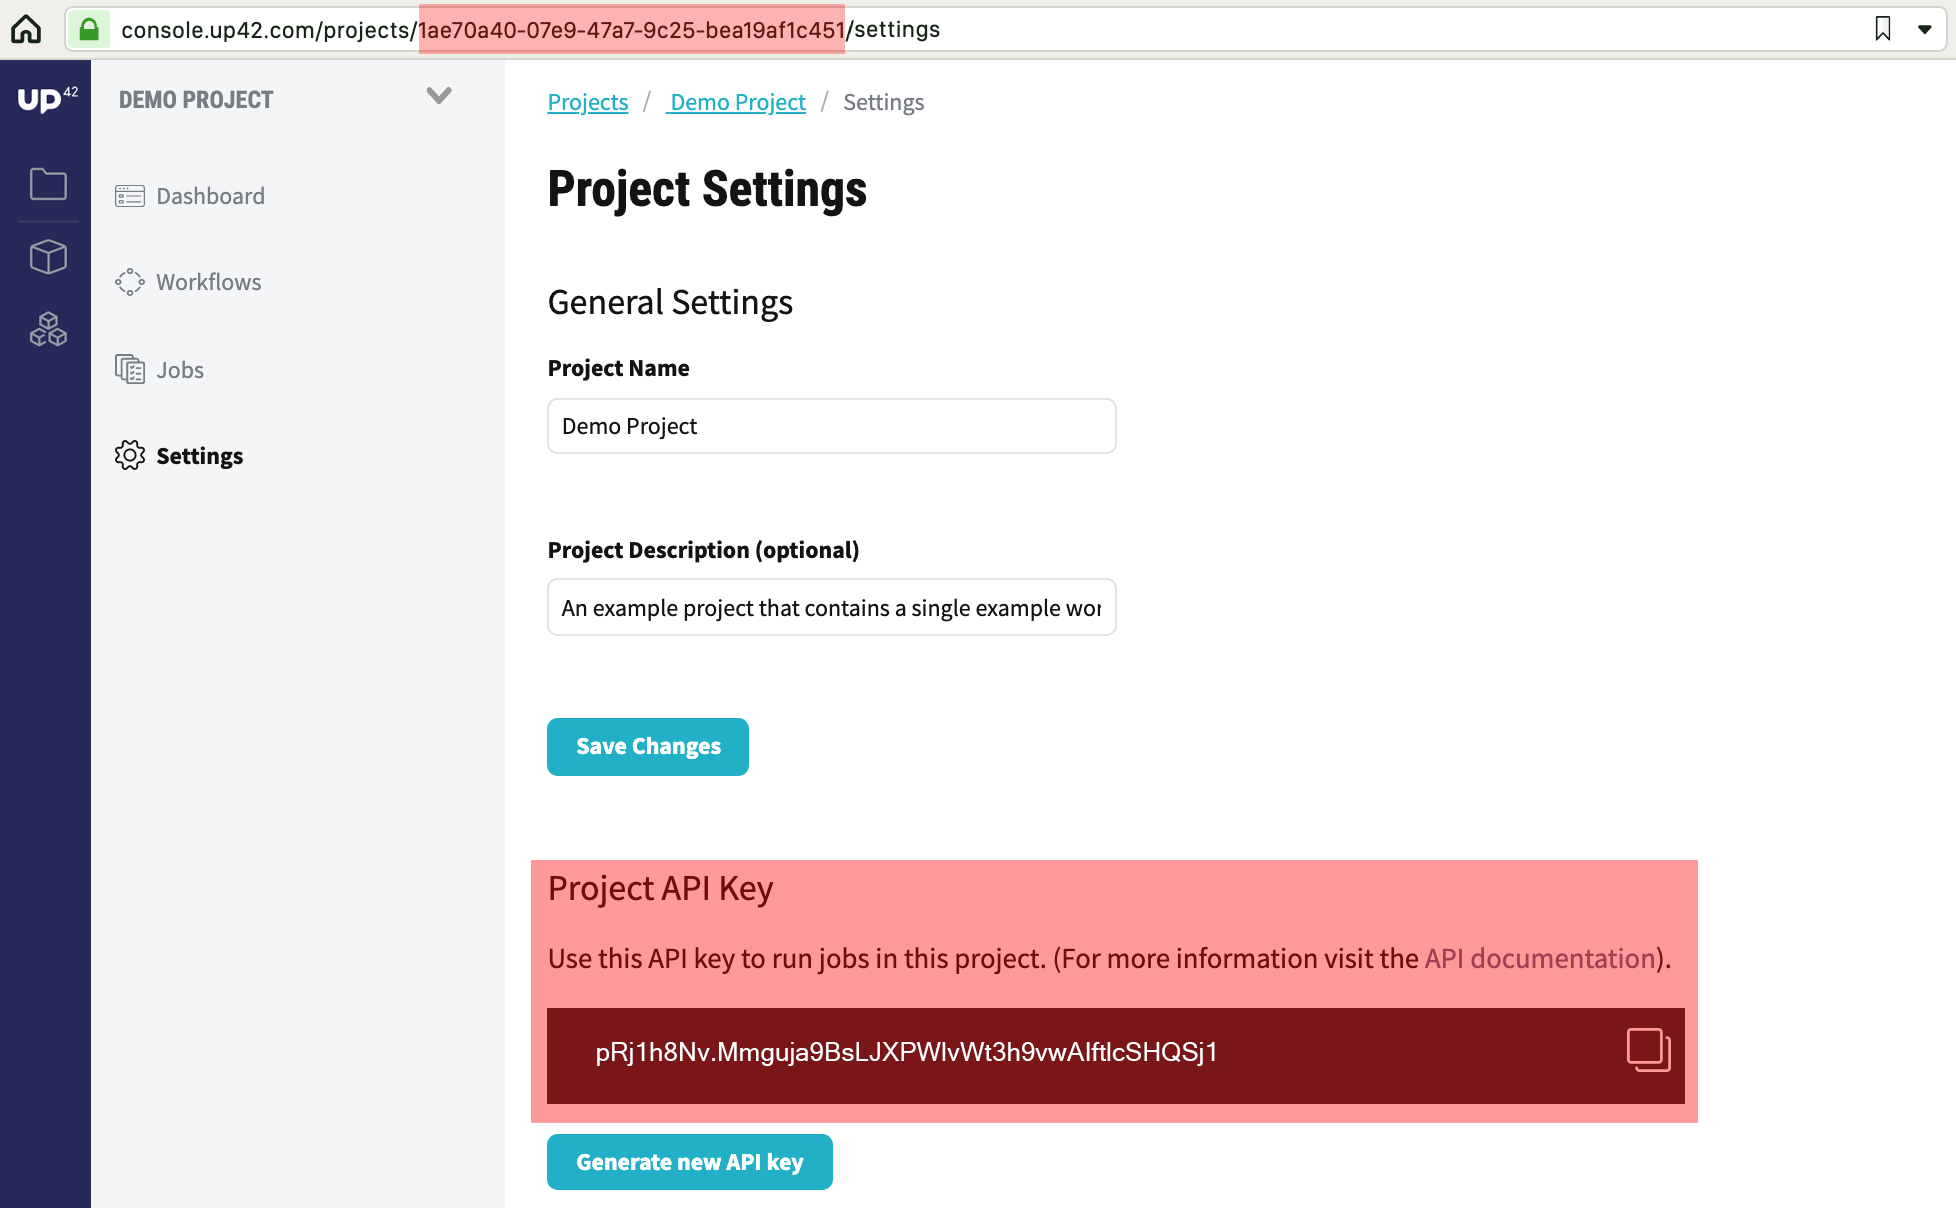
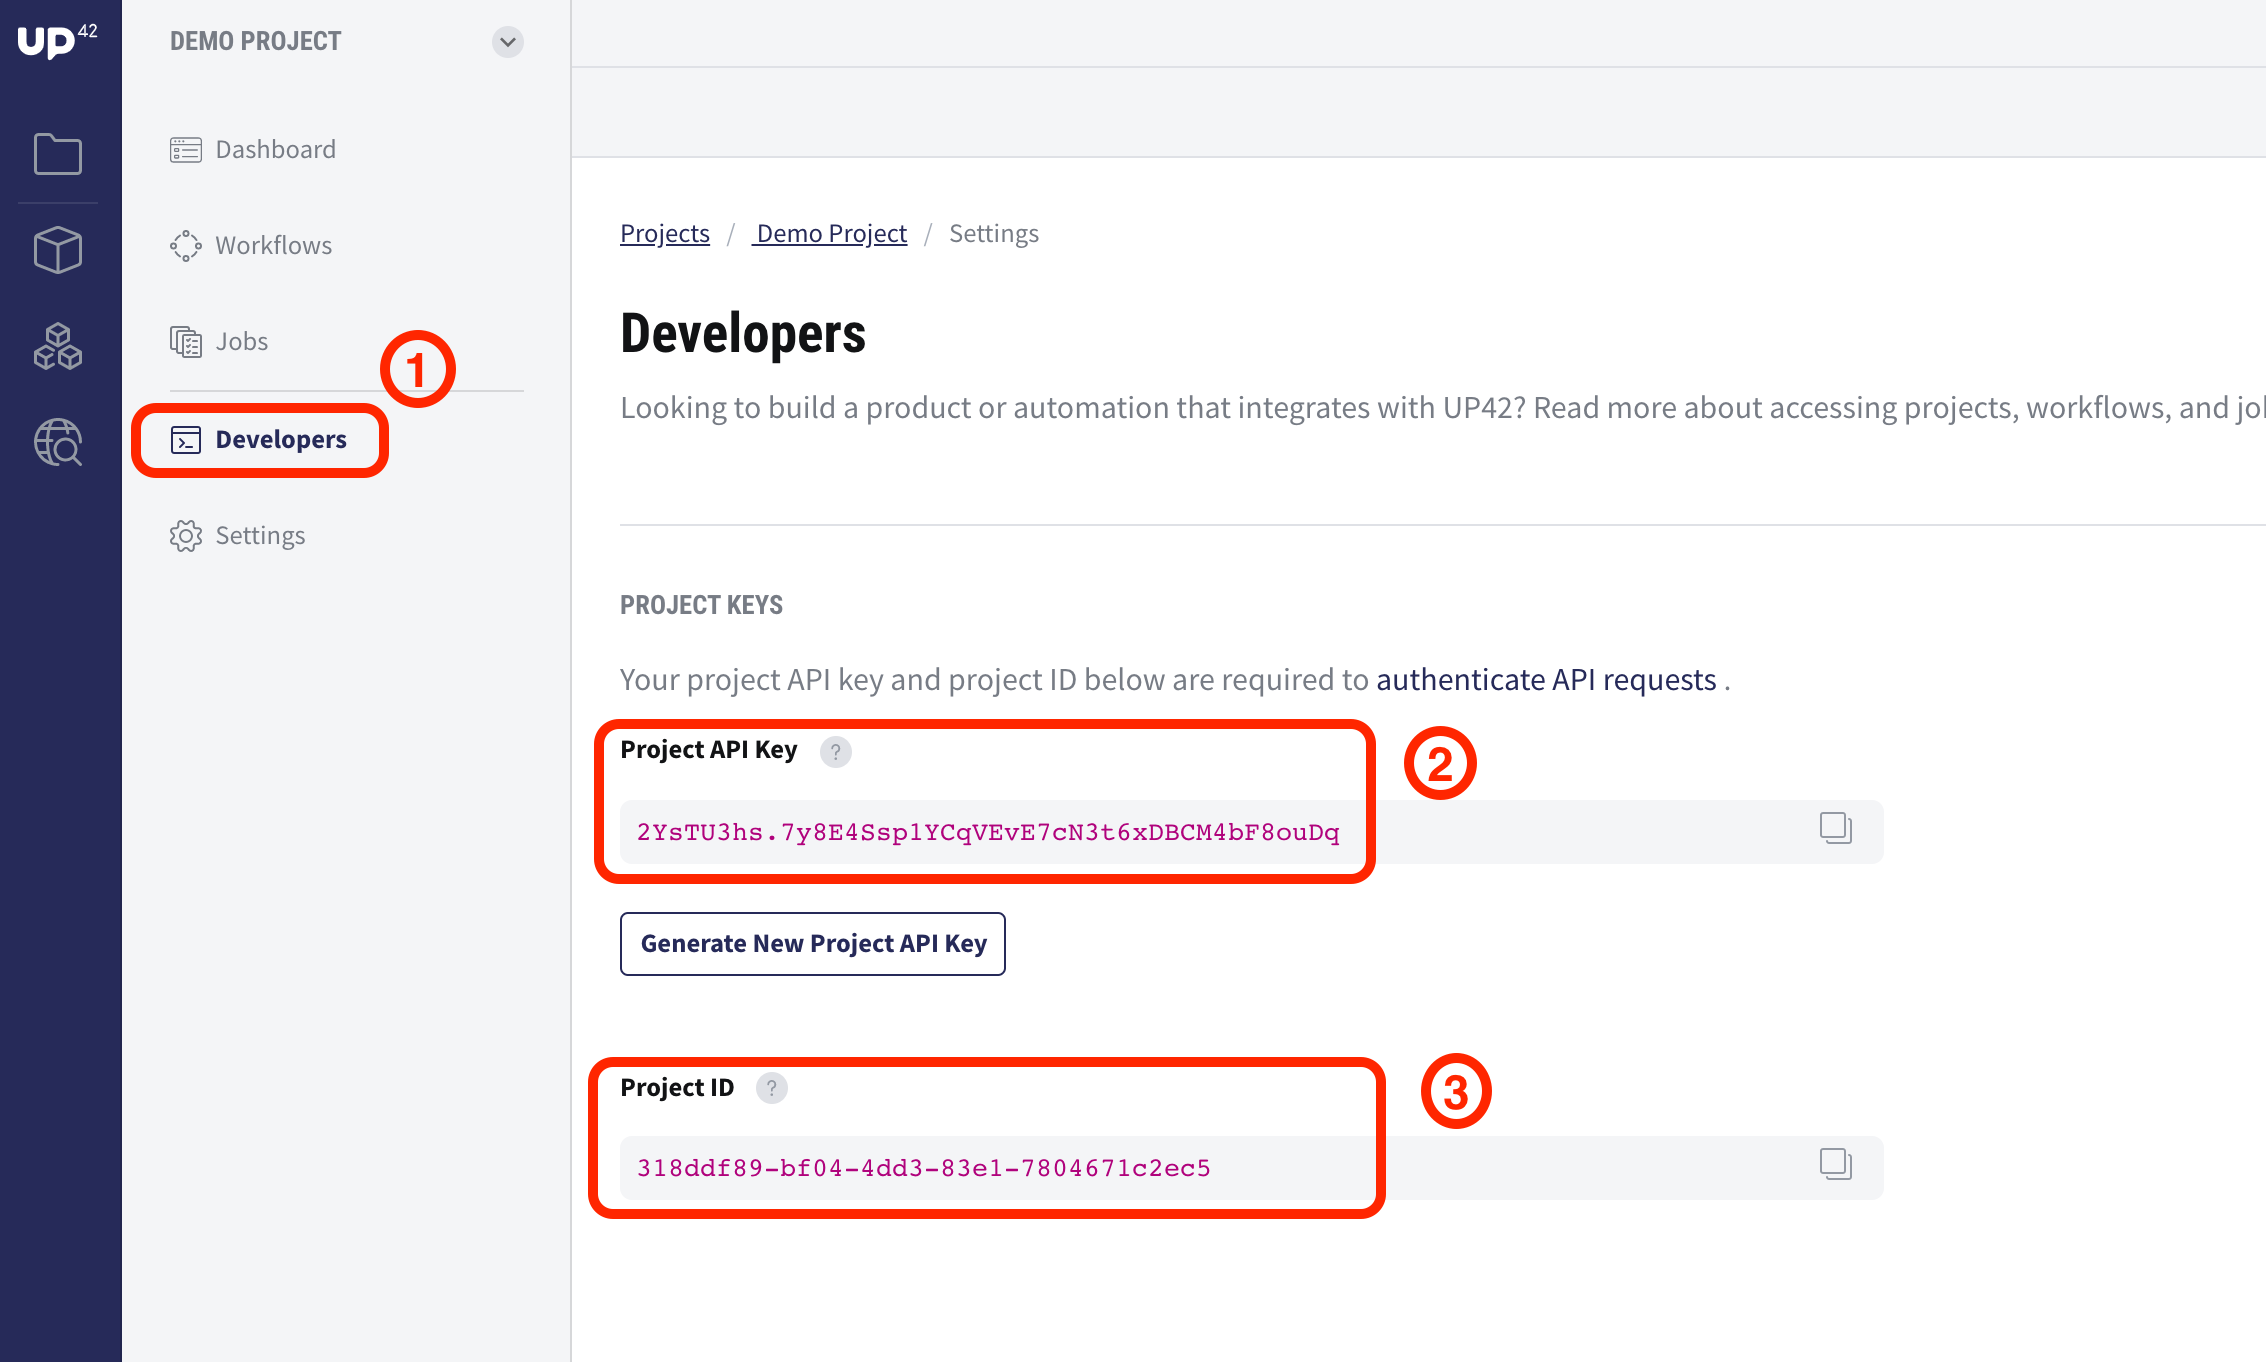
* Updated API documentation to reflect new Developers tab on the console.

diff --git a/source/getting-started/first-api-request.rst b/source/getting-started/first-api-request.rst
@@ -31,8 +31,11 @@ Requirements
 Download the script
 -------------------
 
-To make this example as simple as possible, we will use a `provided script <https://gist.github.com/up42-epicycles/254ea9fb6fca467c54e284e48a2a7b68>`__ that handles the API commands.
-Clone the script using git, go into the script directory and make it executable:
+To make this example as simple as possible, we will use a `provided
+script
+<https://gist.github.com/up42-epicycles/254ea9fb6fca467c54e284e48a2a7b68>`__
+that handles the API commands.  Clone the script using git, go into
+the script directory and make it executable:
 
 .. code:: console
 
@@ -40,31 +43,35 @@ Clone the script using git, go into the script directory and make it executable:
     cd up42-first-api-script
     chmod 755 first_job_run.sh
 
-
 .. _run-script-api:
 
 Run your first job via the API
 ------------------------------
 
-In order to run a job via the API, you need to provide the the ``project API key`` and
-``project ID``. You can find both in the UP42 :term:`console`, in the settings menu of the :term:`demo project`.
+In order to run a job via the API, you need to provide the the
+``project API key`` and ``project ID``. You can find both in the UP42
+:term:`console`, in the **Developers** menu of the :term:`demo
+project`.
 
 .. _project-settings-api-data:
 
 **project API key**
 
-    The project-specific API key. Go to **UP42 Console > Demo Project
-    > Settings** and copy the project API key which looks similar to
+    The project-specific API key.
+    Go to **UP42 Console > Demo Project
+    > Developers** and copy the project API key which looks similar to
     this: ``pRj1h8Nv.Mmguja9BsLJXPWlvWt3h9vwAIftlcSHQSj1``.
 
 **project ID**
-    The unique identifier of the project. Go to **UP42
-    Console > Demo Project**, and extract the project ID from the URL,
-    e.g. ``https://console.up42.com/projects/<project
-    ID>/settings``. The project ID looks similar to this:
-    ``1ae70a40-07e9-47a7-9c25-bea19af1c451``.
 
-.. figure:: _assets/api_settings.png
+    The unique identifier of the project.
+
+    Go to **UP42 Console > Demo Project > Developers** and copy the project ID.
+    The project ID also appears in the URL: ``https://console.up42.com/projects/<project
+    ID>/developers``, where ``<project ID>`` looks similar to this:
+    ``1ae70a40-07e9-47a7-9c25-bea19af1c451`` --- a random `UUID <https://en.wikipedia.org/wiki/Universally_unique_identifier#Version_4_(random)>`_.
+
+.. figure:: _assets/api_settings-opt.png
    :align: center
    :alt: The UP42 console project settings with the API key and project ID
 
@@ -84,9 +91,13 @@ For example:
    :align: center
    :alt: UP42 API usage in the bash command line
 
-As a response, you will get information about the status of the job, e.g. ``"Job <job ID> s RUNNING."``.
-Here, ``<job ID>`` is a the random identifier (following the `UUID <https://en.wikipedia.org/wiki/Universally_unique_identifier#Version_4_(random)>`__ standard)
-for the job you just created. If you invoke the script multiple times, each new job will get a unique ``job ID`` and a unique ``job name``.
+As a response, you will get information about the status of the job,
+e.g. ``"Job <job ID> s RUNNING."``.  Here, ``<job ID>`` is a the
+random identifier (following the `UUID
+<https://en.wikipedia.org/wiki/Universally_unique_identifier#Version_4_(random)>`__
+standard) for the job you just created. If you invoke the script
+multiple times, each new job will get a unique ``job ID`` and a unique
+``job name``.
 
 The created jobs are displayed in the UP42 console in the :ref:`job overview <job-overview>` section.
 
@@ -95,7 +106,9 @@ The created jobs are displayed in the UP42 console in the :ref:`job overview <jo
    :alt: The UP42 console with jobs run via the API
 
 
-If you try to launch a second job while a job is already running, you will receive an error message:
+If you try to launch a second job while a job is already running, you
+will receive an error message corresponding to a `429
+<https://httpstatuses.com/429>`_ HTTP status code:
 
 .. code:: javascript
 

diff --git a/source/going-further/api-walkthrough.rst b/source/going-further/api-walkthrough.rst
@@ -116,6 +116,10 @@ Authentication: getting the token
 Before attempting to do anything with the API you need to get a token in
 order to perform any type of operation on your project.
 
+.. tip::
+
+   See :ref:`here <project-settings-api-data>` how to obtain your project ID and API key.
+
 .. code:: bash
 
    # Set the project ID.
